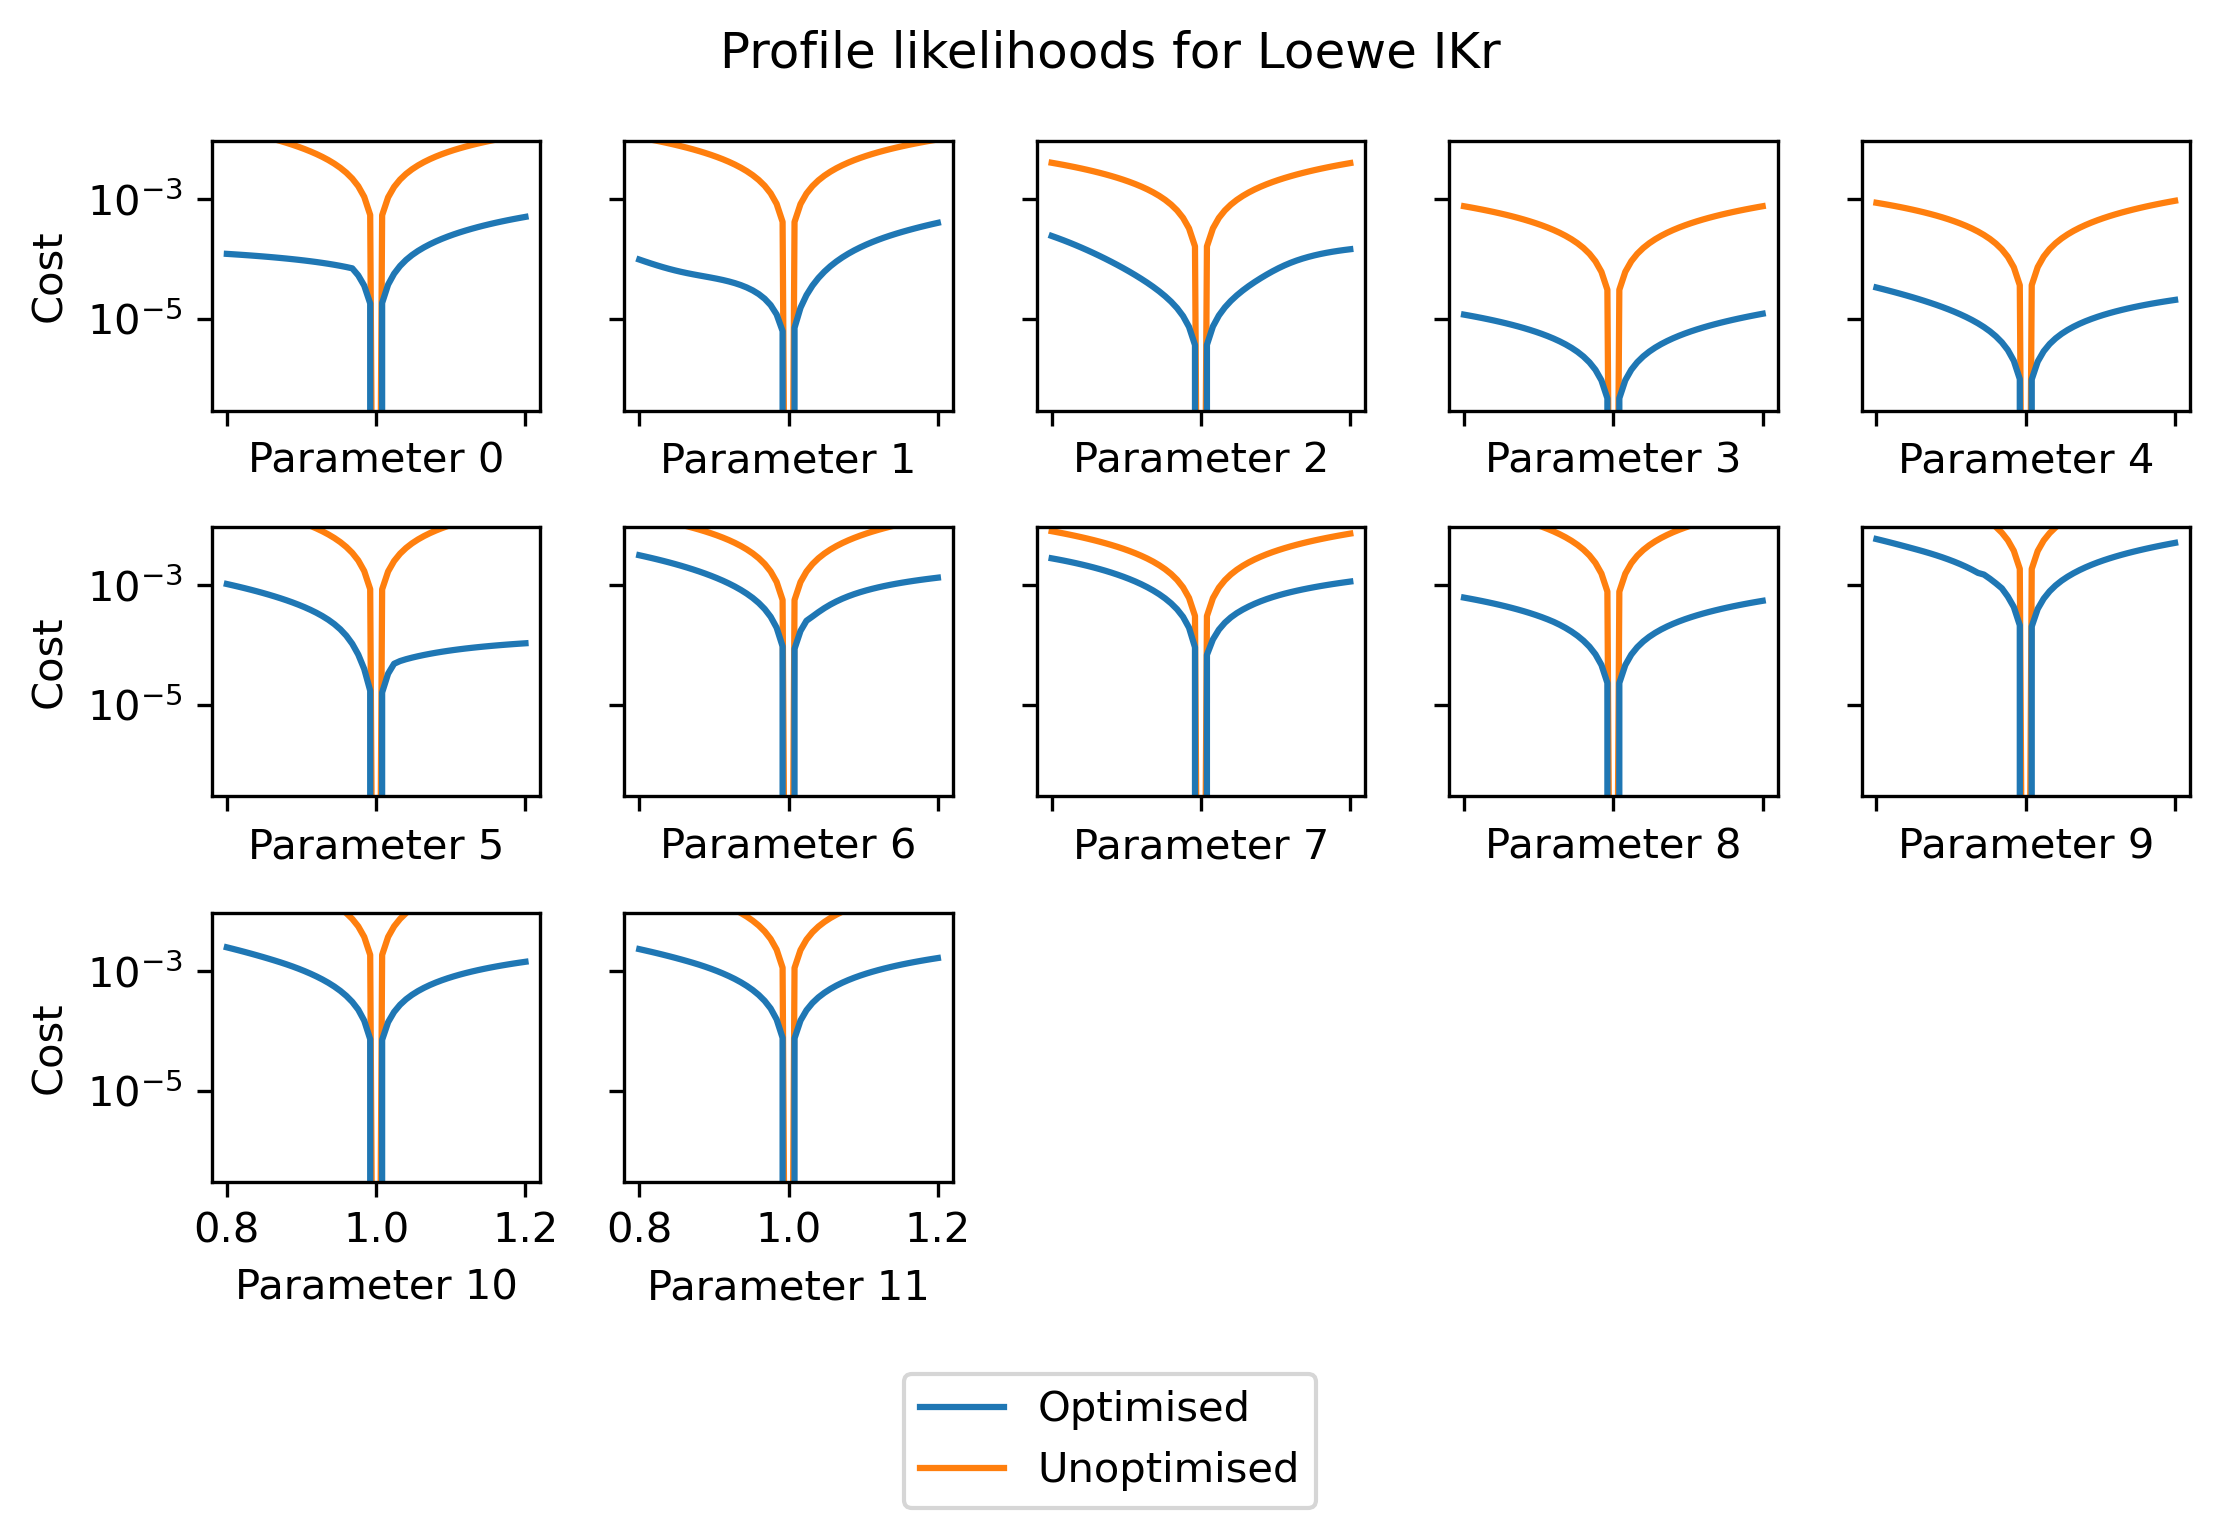
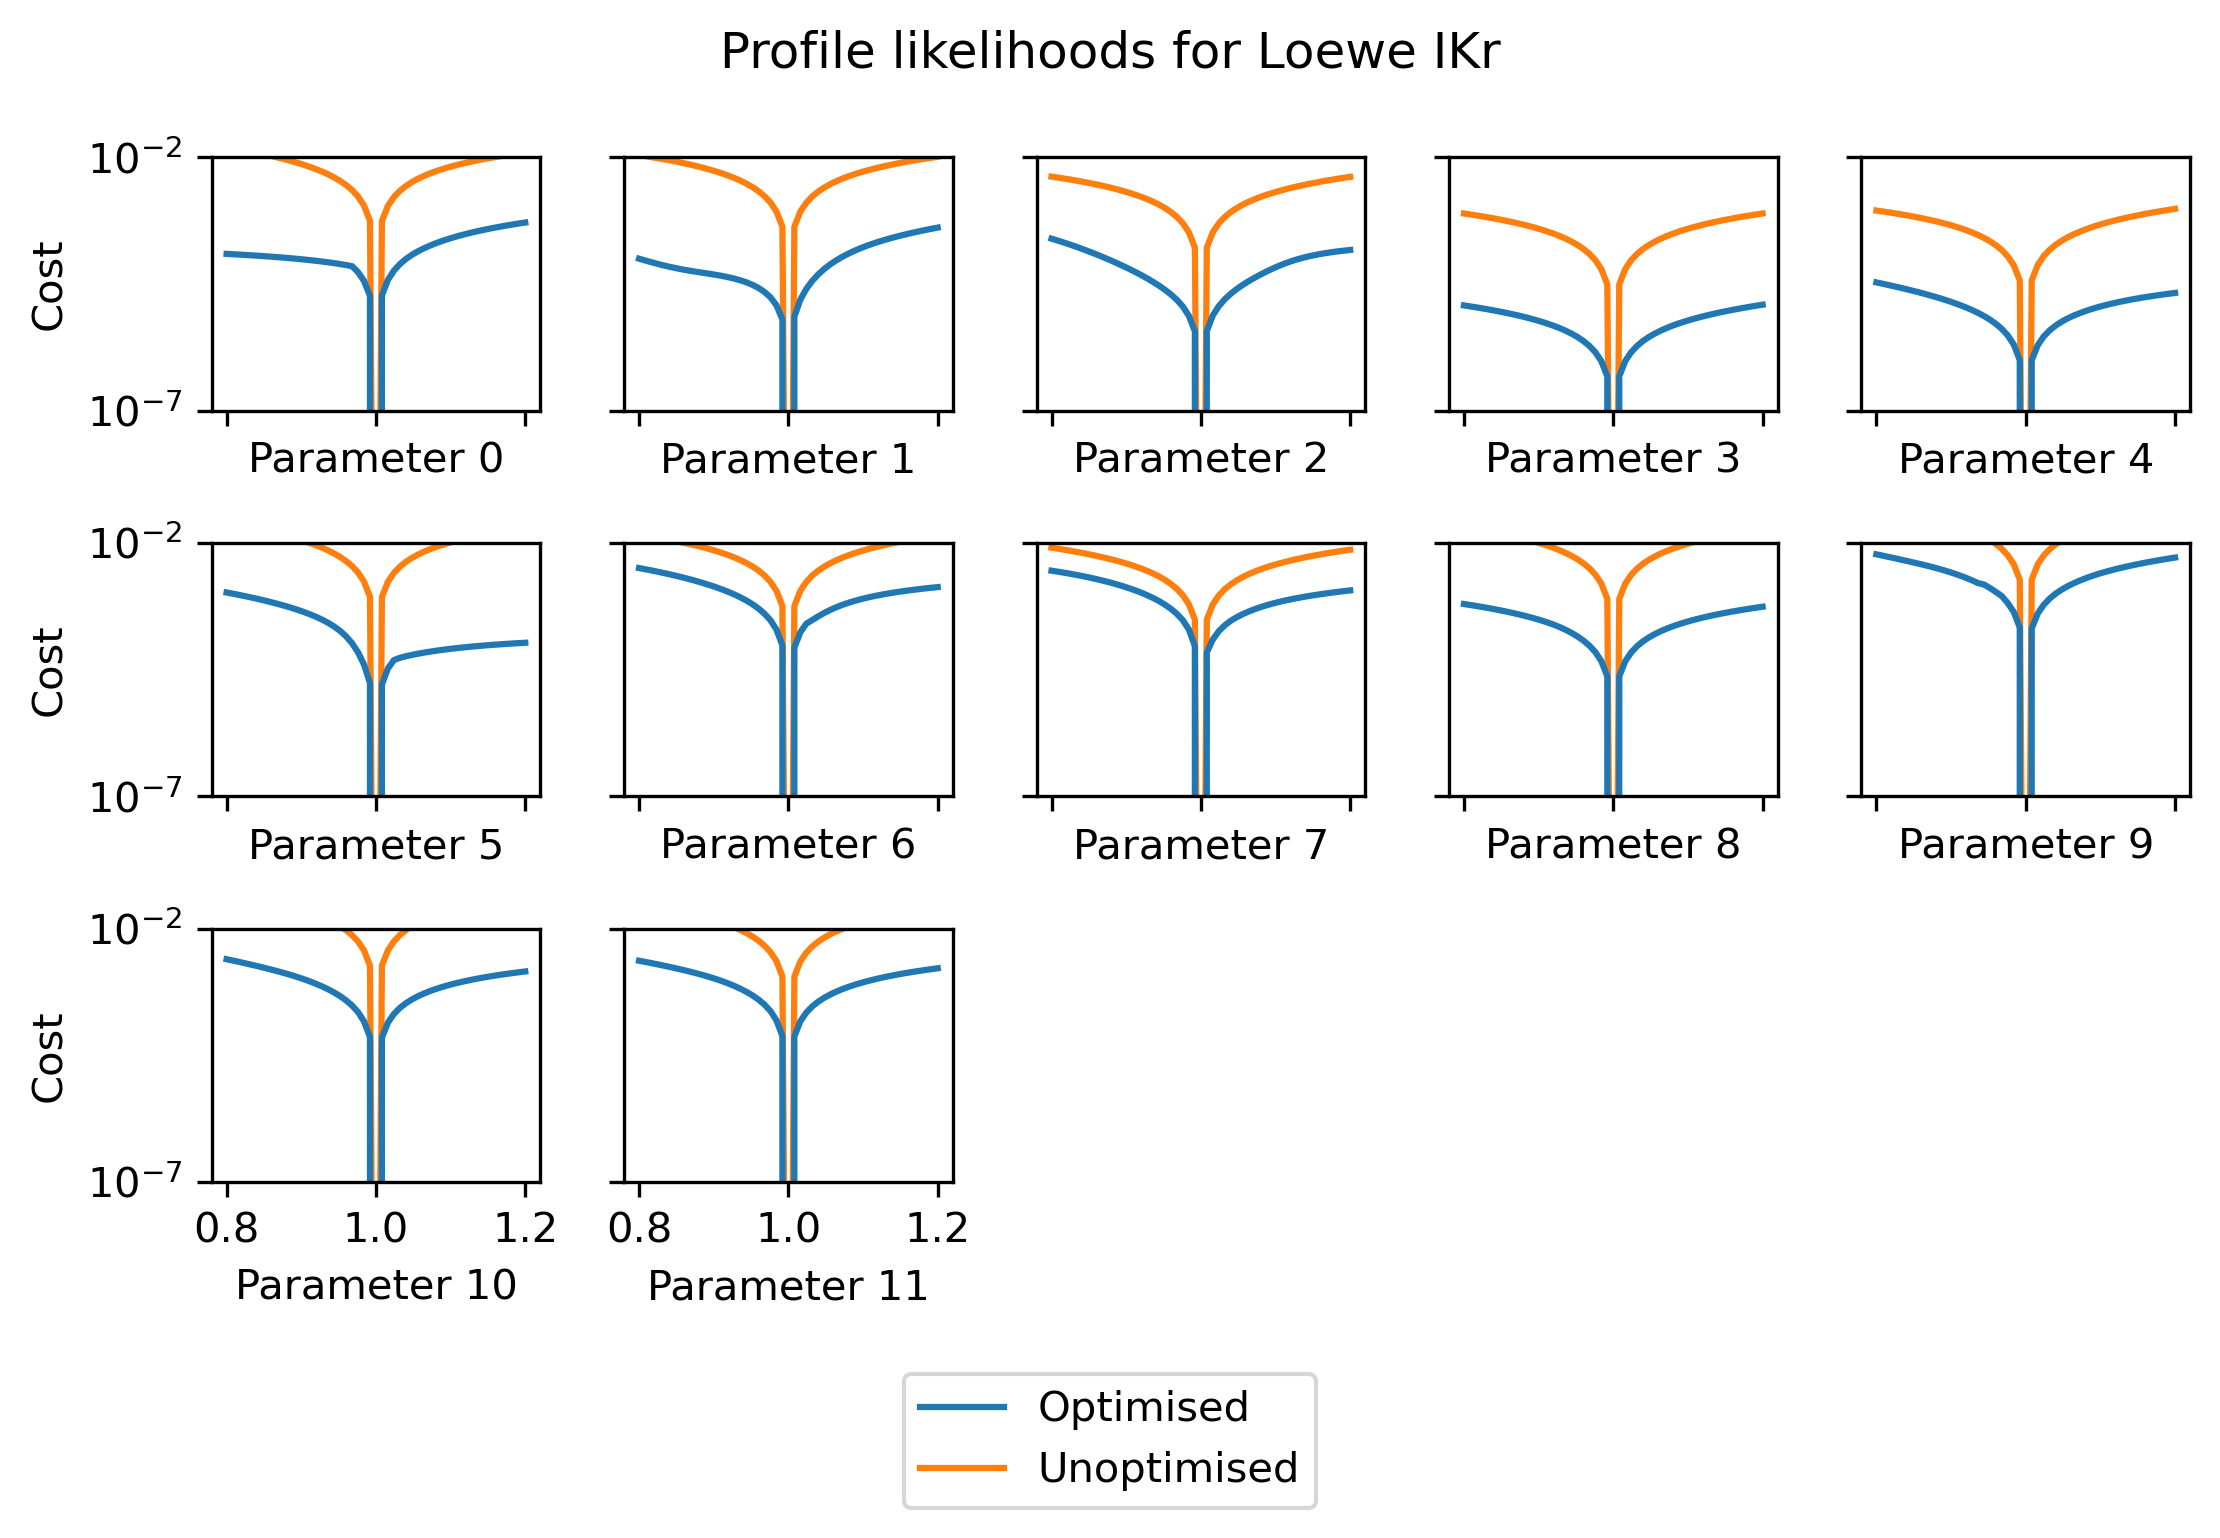
improved readability of some profile likelihoods
some plots have the y axis limits rounded to powers of 10

diff --git a/ionbench/uncertainty/profile_likelihood.py b/ionbench/uncertainty/profile_likelihood.py
@@ -265,9 +265,14 @@ def plot_profile_likelihood(modelType, numberToPlot, filepath='', debug=False):
     for i in range(numberToPlot, int(np.ceil(numberToPlot/5))*5):
         axs[i//5, i % 5].axis('off')
 
-    axs[0, 0].set_ylim(ylim)
     if maxCost/minCost < 1e3:
+        axs[0, 0].set_ylim(ylim)
         axs[0, 0].set_yticks(yticks)
+    else:
+        ylim = [10 ** np.floor(np.log10(ylim[0])), 10 ** np.ceil(np.log10(ylim[1]))]
+        axs[0, 0].set_ylim(ylim)
+        axs[0, 0].set_yticks(ylim)
+
     # Turn off minor ticks
     for ax in axs.flatten():
         ax.yaxis.set_minor_formatter(mpl.ticker.NullFormatter())
